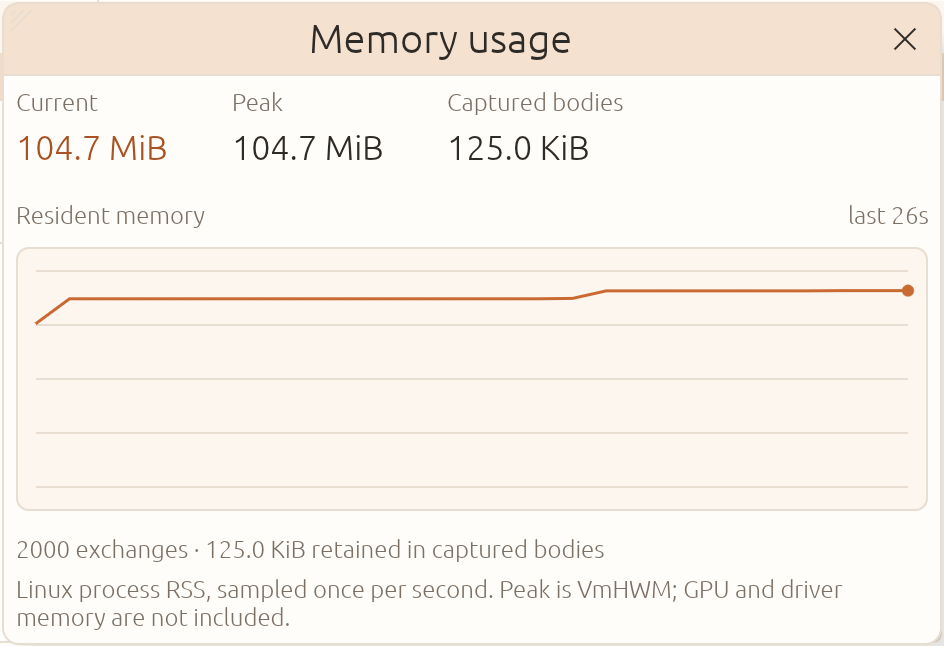
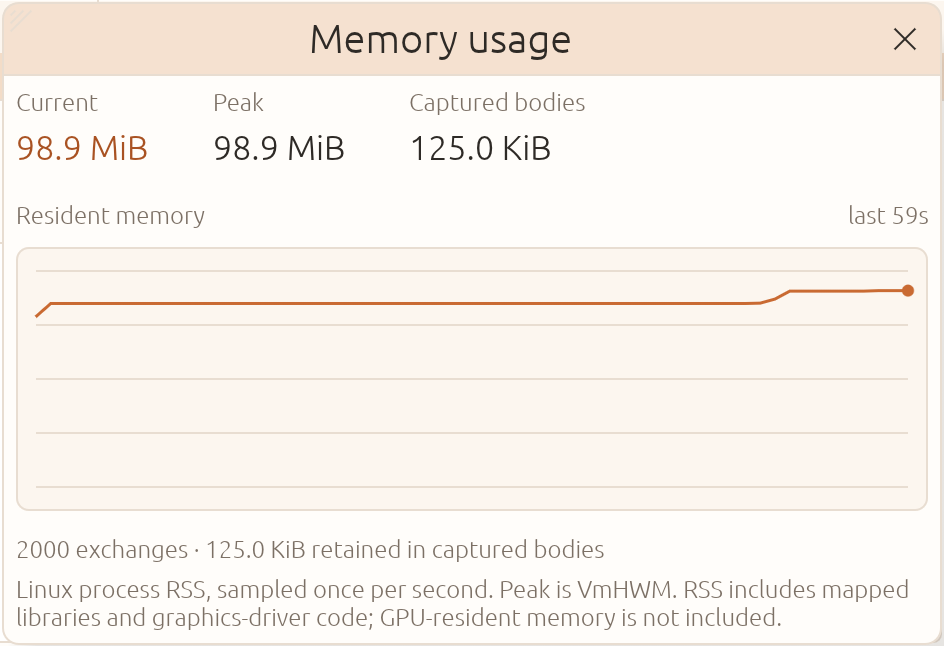
Tune idle memory and document RSS breakdown
Limit glibc malloc arenas to avoid per-thread overhead and lazy-load the About lockup. Re-measure M0 and explain the graphics-driver share of process RSS.

diff --git a/crates/wiremoth/src/app.rs b/crates/wiremoth/src/app.rs
@@ -135,7 +135,7 @@ pub struct WiremothApp {
     native_ui_scale: f32,
     /// Scale chosen at startup (CLI flag or auto-detected); Ctrl+0 resets here.
     base_ui_scale: f32,
-    /// Toolbar brand mark and full logo lockup for the About window.
+    /// Toolbar brand mark; the About lockup is decoded on first use.
     mark: Option<egui::TextureHandle>,
     lockup: Option<egui::TextureHandle>,
     memory: MemoryMeter,
@@ -184,7 +184,6 @@ impl WiremothApp {
         };
 
         let mark = branding::mark_texture(&cc.egui_ctx);
-        let lockup = branding::lockup_texture(&cc.egui_ctx);
 
         let mut app = Self {
             proxy: None,
@@ -212,7 +211,7 @@ impl WiremothApp {
             native_ui_scale,
             base_ui_scale,
             mark,
-            lockup,
+            lockup: None,
             memory: MemoryMeter::new(),
             memory_open: false,
             about_open: false,
@@ -775,8 +774,9 @@ impl WiremothApp {
                 if supported {
                     ui.label(
                         RichText::new(
-                            "Linux process RSS, sampled once per second. Peak is VmHWM; \
-                             GPU and driver memory are not included.",
+                            "Linux process RSS, sampled once per second. Peak is VmHWM. \
+                             RSS includes mapped libraries and graphics-driver code; \
+                             GPU-resident memory is not included.",
                         )
                         .small()
                         .color(theme::TEXT_MUTED),
@@ -798,6 +798,9 @@ impl WiremothApp {
         if ctx.input(|input| input.key_pressed(Key::Escape)) {
             self.about_open = false;
             return;
+        }
+        if self.lockup.is_none() {
+            self.lockup = branding::lockup_texture(ctx);
         }
         let mut open = self.about_open;
         let lockup = self.lockup.clone();

diff --git a/crates/wiremoth/src/main.rs b/crates/wiremoth/src/main.rs
@@ -44,6 +44,7 @@ pub struct Args {
 }
 
 fn main() -> eframe::Result {
+    tune_allocator();
     env_logger::Builder::from_env(env_logger::Env::default().default_filter_or("info")).init();
     let args = Args::parse();
 
@@ -68,3 +69,20 @@ fn main() -> eframe::Result {
         Box::new(move |cc| Ok(Box::new(app::WiremothApp::new(cc, args)))),
     )
 }
+
+/// Keep glibc from creating a separate malloc arena for every proxy/UI thread.
+///
+/// Wiremoth is a small process with a few threads. The default arena policy
+/// was worth about 8 MiB of idle RSS on the reference VM, while two arenas
+/// leave enough room for concurrent allocation.
+#[cfg(all(target_os = "linux", target_env = "gnu"))]
+fn tune_allocator() {
+    // SAFETY: this only changes glibc malloc configuration, before the UI and
+    // proxy threads are started.
+    unsafe {
+        libc::mallopt(libc::M_ARENA_MAX, 2);
+    }
+}
+
+#[cfg(not(all(target_os = "linux", target_env = "gnu")))]
+fn tune_allocator() {}

diff --git a/docs/performance.md b/docs/performance.md
@@ -19,16 +19,16 @@ in history.
 
 | Scenario | Current RSS | Peak RSS | Notes |
 | --- | ---: | ---: | --- |
-| Idle, empty history | 100.4 MiB | 103.6 MiB | 30 seconds after startup |
-| 2,000 exchanges | 104.7 MiB | 104.7 MiB | 125 KiB in captured bodies; `End` and scrolling checked |
-| 8 MiB text response, Raw | 108.7 MiB | 108.7 MiB | 1 MiB captured; 256 KiB text preview |
-| 8 MiB text response, Hex | 108.7 MiB | 108.7 MiB | 64 KiB hex dump, virtualized by line |
-| 8 MiB binary response, Raw | 115.2 MiB | 115.2 MiB | 1 MiB captured; 8 KiB inline binary preview |
-| 8 MiB binary response, Hex | 115.2 MiB | 115.2 MiB | 64 KiB hex dump, virtualized by line |
+| Idle, empty history | 92.1 MiB | 93.7 MiB | 15 seconds after startup |
+| 2,000 exchanges | 98.9 MiB | 98.9 MiB | 125 KiB in captured bodies; `End` and scrolling checked |
+| 8 MiB text response, Raw | 102.6 MiB | 102.6 MiB | 1 MiB captured; 256 KiB text preview |
+| 8 MiB text response, Hex | 102.6 MiB | 102.6 MiB | 64 KiB hex dump, virtualized by line |
+| 8 MiB binary response, Raw | 104.7 MiB | 108.6 MiB | 1 MiB captured; 8 KiB inline binary preview |
+| 8 MiB binary response, Hex | 104.7 MiB | 108.6 MiB | 64 KiB hex dump, virtualized by line |
 
-The 2,000-entry test added about 4.3 MiB over idle. Both large-response tests
-stayed under 116 MiB even though the wire body was 8 MiB, because capture stops
-at 1 MiB and the detail views render bounded previews.
+The 2,000-entry test added about 6.5 MiB over idle. Both large-response tests
+stayed under 109 MiB peak even though the wire body was 8 MiB, because capture
+stops at 1 MiB and the detail views render bounded previews.
 
 ### Findings
 
@@ -39,13 +39,41 @@ at 1 MiB and the detail views render bounded previews.
   same as a 1 MiB response once captured.
 - The hex view is line-virtualized. Before that change, laying out a 64 KiB
   dump as one text galley peaked at about 182.8 MiB in the text-response
-  scenario; the same view now peaks at 108.7 MiB.
+  scenario; with virtualization and allocator tuning, the same view peaks at
+  102.6 MiB.
 - Binary bodies get a smaller 8 KiB inline preview in Raw to keep the
   non-virtualized text view bounded. The Hex tab still exposes a 64 KiB dump.
+- glibc was creating extra malloc arenas for the UI and proxy threads. Limiting
+  the process to two arenas with `mallopt(M_ARENA_MAX, 2)` reduced idle RSS by
+  about 8.3 MiB, from 100.4 to 92.1 MiB.
+- The About lockup is now decoded only when that window opens, instead of
+  keeping a 1200x320 texture ready from startup.
 
-RSS includes shared library pages and the OpenGL driver's CPU-side allocations.
-It does not include GPU/driver memory that is not resident in the process.
-Results will vary with fonts, drivers, desktop settings, and captured content.
+### Where idle RSS goes
+
+Process RSS counts mapped file pages as well as the heap. The idle 92.1 MiB on
+the reference VM breaks down roughly as follows:
+
+| Mapping | RSS |
+| --- | ---: |
+| `libLLVM` (Mesa shader compiler) | 44.6 MiB |
+| `libgallium` (Mesa graphics driver) | 12.0 MiB |
+| Wiremoth executable | 7.8 MiB |
+| Heap | 11.3 MiB |
+| Anonymous mappings (stacks, buffers) | 6.0 MiB |
+| Other libraries and mappings | 10.4 MiB |
+| **Total** | **92.1 MiB** |
+
+The two Mesa mappings are not Wiremoth's data; they are the system graphics
+driver. On this VM, the VMware `vmwgfx` driver uses Mesa's LLVM shader
+compiler. Forcing the llvmpipe software path raised idle RSS to about 186 MiB,
+so it is not a lower-memory fallback here. Other GPUs and driver versions will
+report different totals.
+
+Proportional set size (PSS) at the same moment was 86.9 MiB. RSS is not
+directly comparable to a JVM heap counter: it includes mapped library code and
+driver pages, not just the application's live data. Results will vary with
+fonts, graphics drivers, desktop settings, and captured content.
 
 ## Test environment
 
@@ -78,10 +106,11 @@ PID=$(pgrep -n -f './target/release/wiremoth')
 grep -E 'VmRSS|VmHWM' "/proc/$PID/status"
 ```
 
-Wait 30 seconds after startup for the idle reading. Generate traffic through
+Wait 15 seconds after startup for the idle reading. Generate traffic through
 the proxy and wait a few seconds for the UI to apply the events. The in-app
 **Memory** window shows the same current and peak values, plus the bytes
-retained for captured bodies.
+retained for captured bodies. The mapping breakdown above was read from
+`/proc/<pid>/smaps` and `/proc/<pid>/smaps_rollup`.
 
 History was filled with 2,000 sequential loopback requests:
 

diff --git a/docs/roadmap.md b/docs/roadmap.md
@@ -10,9 +10,10 @@ definition of done, and deliberate deviations.
   rendering, and large-response viewing on modest Linux hardware.
 
   *Complete: on a 4 vCPU / 5.3 GiB Kali arm64 VM at 200% scaling, a release
-  build used 100.4 MiB RSS idle, 104.7 MiB with 2,000 exchanges, and at most
-  115.2 MiB while viewing 8 MiB text and binary responses capped at 1 MiB.
-  Method and full results: [Performance and memory](performance.md).*
+  build used 92.1 MiB RSS idle, 98.9 MiB with 2,000 exchanges, and at most
+  108.6 MiB peak while viewing 8 MiB text and binary responses capped at
+  1 MiB. Method, breakdown, and full results:
+  [Performance and memory](performance.md).*
 
 - [ ] **Milestone 1 — Proxy core:** reliable HTTP/1.1 capture and forwarding,
   request/response interception with edit, forward, and drop, explicit scope

diff --git a/README.md b/README.md
@@ -72,7 +72,7 @@ Detailed setup, CLI flags, HiDPI behavior, and current limitations:
 | --- | --- |
 | [Getting started](docs/getting-started.md) | Build, run, proxy setup, options, limitations |
 | [Design](docs/design.md) | Principles, architecture, technology, performance |
-| [Performance and memory](docs/performance.md) | M0 measurements, method, and baseline environment |
+| [Performance and memory](docs/performance.md) | M0 measurements, idle RSS breakdown, and method |
 | [Roadmap](docs/roadmap.md) | Milestones from prototype to Community parity |
 | [Burp Community parity](docs/burp-parity.md) | Definition of parity, capability matrix, deviations |
 | [Safety and privacy](docs/safety.md) | Authorized use, data handling, CA trust |

diff --git a/docs/getting-started.md b/docs/getting-started.md
@@ -55,9 +55,10 @@ Headers, and Hex views. Click a row or use the keyboard to select it.
 
 The status bar also shows a live **Memory** figure on Linux. Click it for
 current and peak resident memory, the bytes retained in captured bodies, and a
-rolling three-minute graph. The measurement is Linux process RSS; it excludes
-GPU and driver memory outside the process. See
-[Performance and memory](performance.md) for the M0 baseline and method.
+rolling three-minute graph. The measurement is Linux process RSS; it includes
+mapped libraries and graphics-driver code, but not GPU-resident memory. See
+[Performance and memory](performance.md) for the M0 baseline, mapping
+breakdown, and method.
 
 ## Pointing a browser at Wiremoth
 

diff --git a/docs/burp-parity.md b/docs/burp-parity.md
@@ -67,8 +67,9 @@ Scope rules currently filter the site map and history only. They are not yet a
 traffic guardrail: capture and forwarding still apply to every host until the
 interception milestone enforces scope.
 
-Memory usage uses Linux process RSS (`/proc/self/status`) and excludes GPU and
-driver memory outside the process. Other platforms report it as unavailable.
+Memory usage uses Linux process RSS (`/proc/self/status`). It includes mapped
+libraries and graphics-driver code, but excludes GPU-resident memory. Other
+platforms report it as unavailable.
 
 ## Deliberate deviations
 

diff --git a/docs/design.md b/docs/design.md
@@ -118,6 +118,8 @@ Important implementation principles:
 - Virtualized request lists and hex dumps, plus bounded text previews.
 - Avoid full document layout for multi-megabyte responses; show raw text and
   hex views instead.
+- A fixed, small malloc-arena limit so proxy and UI threads do not multiply
+  allocator overhead.
 - A live process-memory meter so memory behavior is visible during use.
 
 The Milestone 0 baseline and measurement method are published in
